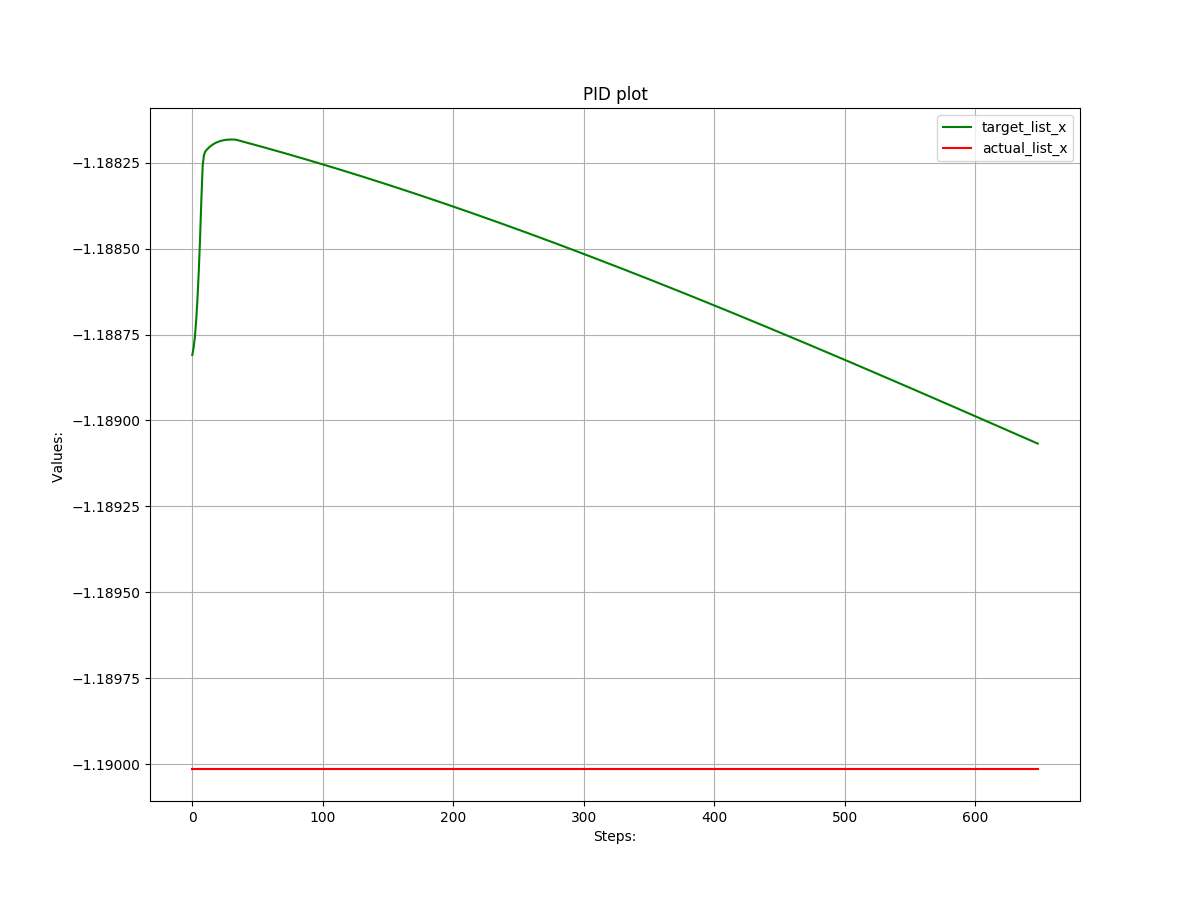
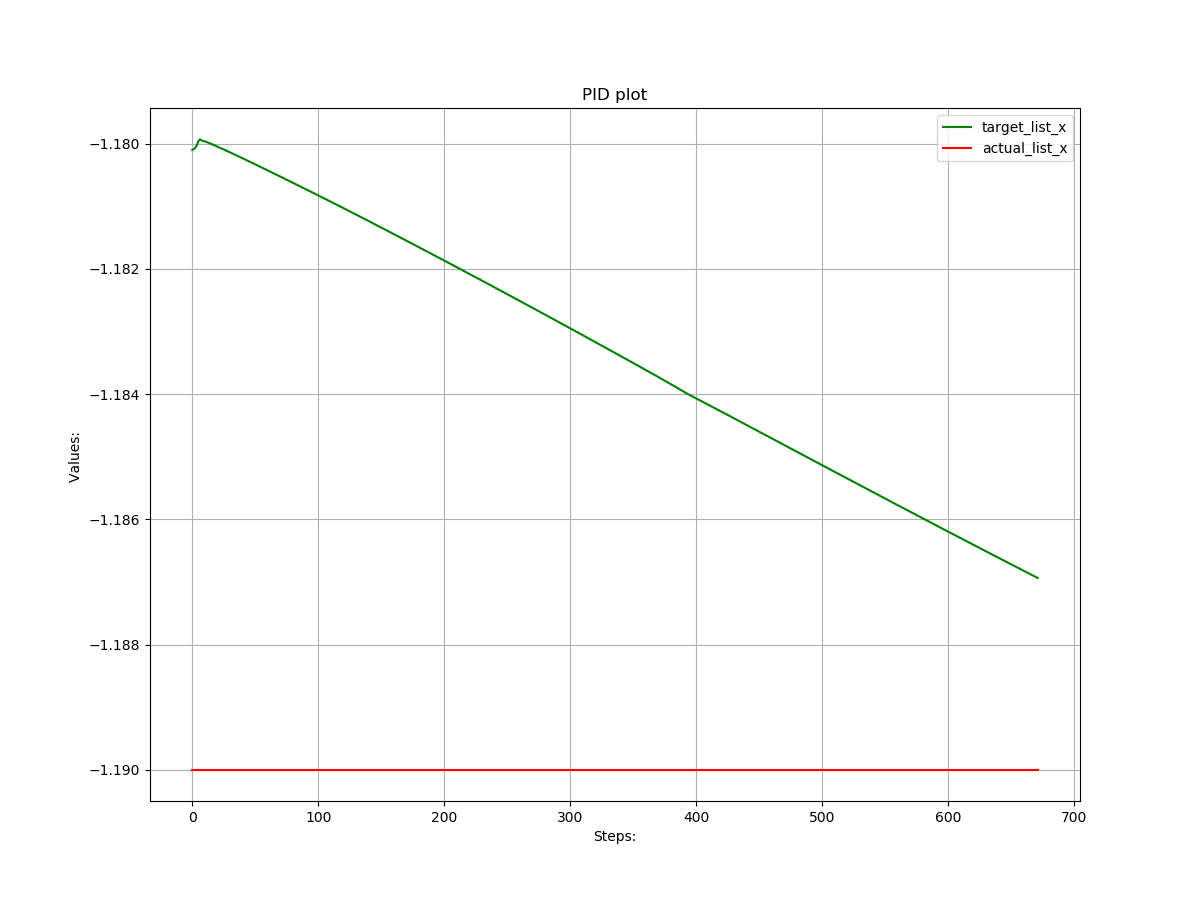
suction cup position fixed

diff --git a/src/robot_with_drop_area.py b/src/robot_with_drop_area.py
@@ -77,7 +77,12 @@ class GridEnvironment():
                 print(z_error)
                 self.Robot.extend_wrist(zpos+self.calib*z_error)
             p.resetDebugVisualizerCamera(0.4, angle, -20, [xpos, ypos, p.getBasePositionAndOrientation(object)[0][2]])
-            self.Robot.suction_down()
+            suction_z_error = max(0.9534781 - top_pos, 0)
+            if suction_z_error > 0:
+                suction_z_error = min(suction_z_error, 0.09)
+                self.Robot.suction_down(0.09 - suction_z_error)
+            else:
+                self.Robot.suction_down()
             cons = self.Robot.suction_force(object)
             self.Robot.suction_up()
             p.resetDebugVisualizerCamera(2 , 0, -41, [0, -1.4, 1])

diff --git a/src/robot.py b/src/robot.py
@@ -636,7 +636,7 @@ class robot:
 
 	#function to move suction cup towards the object
 	def move_suction_cup(self, target_pos_frame, target_pos_head):
-		self.move_frame_and_head(target_pos_frame+0.06, target_pos_head-0.17)
+		self.move_frame_and_head(target_pos_frame+0.06, target_pos_head-0.19)
 
 	#function to get the list of random objects -- not used in sim
 	def _get_random_object(self):
